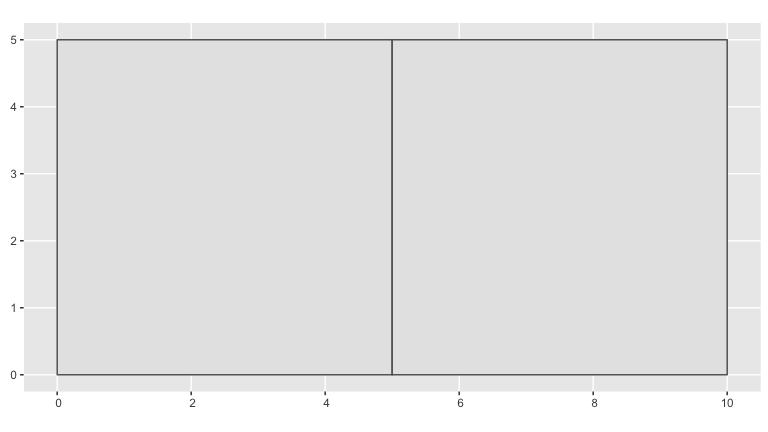
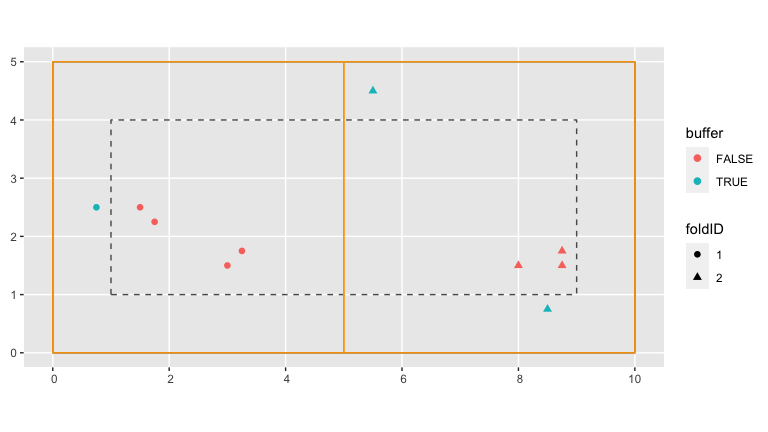
Rebuilt README

diff --git a/README.md b/README.md
@@ -70,7 +70,7 @@ growth_ex <-
     census_2 = census_2_ex %>% filter(!str_detect(codes, "R")),
     id = "ID"
     ) %>%
-  mutate(sp = to_any_case(sp) %>% factor())
+  mutate(sp = snakecase::to_any_case(sp) %>% factor())
 ```
 
 ### Add spatial information
@@ -114,18 +114,17 @@ base_plot +
 
 Next we add information pertaining to our spatial cross-validation
 scheme. We first manually define the spatial blocks that will act as our
-cross-validation folds and convert them to an `sf` object using
-`sf_polygon()` function from the `sfheaders` package.
+cross-validation folds and convert them to an `sf` object.
 
 ``` r
 fold1 <- rbind(c(0, 0), c(5, 0), c(5, 5), c(0, 5), c(0, 0))
 fold2 <- rbind(c(5, 0), c(10, 0), c(10, 5), c(5, 5), c(5, 0))
 
-blocks <- bind_rows(
-  sf_polygon(fold1),
-  sf_polygon(fold2)
+blocks_ex <- bind_rows(
+  sfheaders::sf_polygon(fold1),
+  sfheaders::sf_polygon(fold2)
 ) %>%
-  mutate(foldID = c(1, 2))
+  mutate(folds = c(1, 2) %>% factor())
 ```
 
 Next we assign each tree to the correct folds using the `foldID`
@@ -133,26 +132,14 @@ variable of the output returned by the `spatialBlock()` function from
 the [`blockCV`](https://github.com/rvalavi/blockCV) package.
 
 ``` r
-SpatialBlock_ex <- spatialBlock(
-  speciesData = growth_ex, k = 2, selection = "systematic", blocks = blocks,
+SpatialBlock_ex <- blockCV::spatialBlock(
+  speciesData = growth_ex, k = 2, selection = "systematic", blocks = blocks_ex,
   showBlocks = FALSE, verbose = FALSE
 )
 
 growth_ex <- growth_ex %>%
   mutate(foldID = SpatialBlock_ex$foldID %>% factor())
 ```
-
-We also extract the spatial cross-validation grid itself as an `sf`
-object for later use.
-
-``` r
-cv_grid_sf_ex <- SpatialBlock_ex$blocks %>%
-  st_as_sf()
-ggplot() +
-  geom_sf(data = cv_grid_sf_ex)
-```
-
-<img src="man/figures/README-unnamed-chunk-9-1.png" width="100%" />
 
 In the visualization below, the spatial blocks that act as our
 cross-validation folds are delineated in orange. Correspondingly the
@@ -161,10 +148,10 @@ shape of each point indicates which fold each tree has been assigned to.
 ``` r
 base_plot + 
   geom_sf(data = growth_ex, aes(col = buffer, shape = foldID), size = 2) +
-  geom_sf(data = blocks, fill = "transparent", col = "orange")
+  geom_sf(data = blocks_ex, fill = "transparent", col = "orange")
 ```
 
-<img src="man/figures/README-unnamed-chunk-10-1.png" width="100%" />
+<img src="man/figures/README-unnamed-chunk-9-1.png" width="100%" />
 
 ### Compute focal versus competitor tree information
 
@@ -178,7 +165,7 @@ multiple times.
 
 ``` r
 focal_vs_comp_ex <- growth_ex %>%
-  create_focal_vs_comp(comp_dist, cv_grid_sf = cv_grid_sf_ex, id = "ID")
+  create_focal_vs_comp(comp_dist, cv_grid_sf = blocks_ex, id = "ID")
 focal_vs_comp_ex
 #> # A tibble: 6 x 7
 #>   focal_ID focal_sp         dbh foldID    geometry growth comp            
@@ -198,7 +185,7 @@ distance from it.
 
 ``` r
 focal_vs_comp_ex %>% 
-  unnest(cols = "comp")
+  tidyr::unnest(cols = "comp")
 #> # A tibble: 11 x 10
 #>    focal_ID focal_sp   dbh foldID                  geometry growth comp_ID  dist
 #>       <dbl> <fct>    <dbl> <fct>                    <POINT>  <dbl>   <dbl> <dbl>
@@ -249,7 +236,7 @@ p3 <- autoplot(comp_bayes_lm_ex, type = "competition")
 (p1 | p2) / p3
 ```
 
-<img src="man/figures/README-unnamed-chunk-14-1.png" width="100%" />
+<img src="man/figures/README-unnamed-chunk-13-1.png" width="100%" />
 
 Furthermore, we can apply a generic `predict()` function to the
 resulting `comp_bayes_lm` object to obtain fitted/predicted values of
